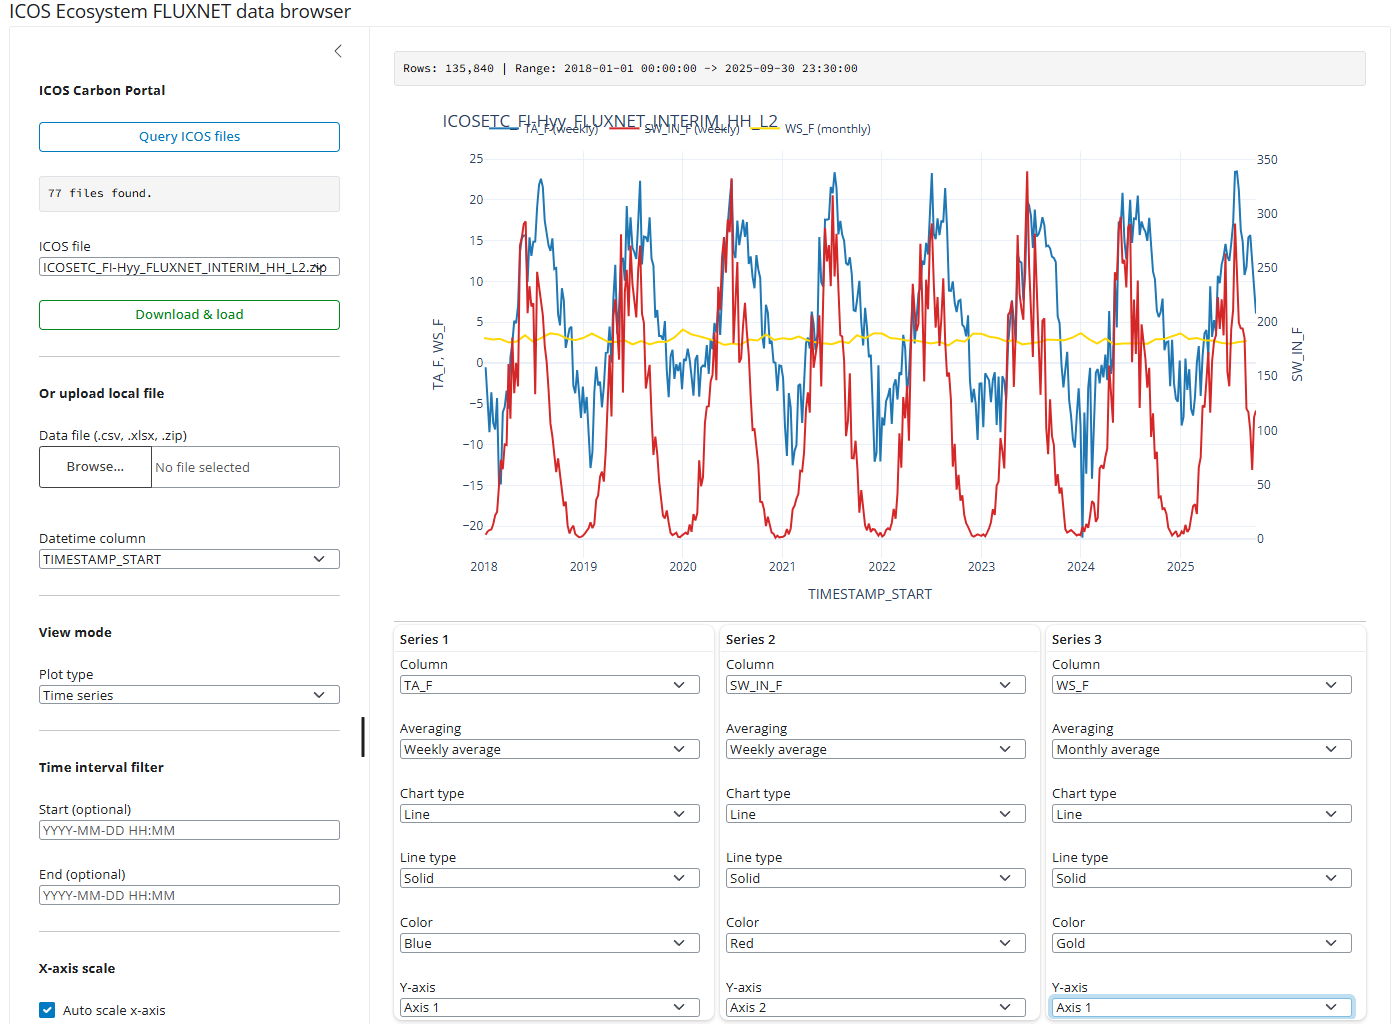
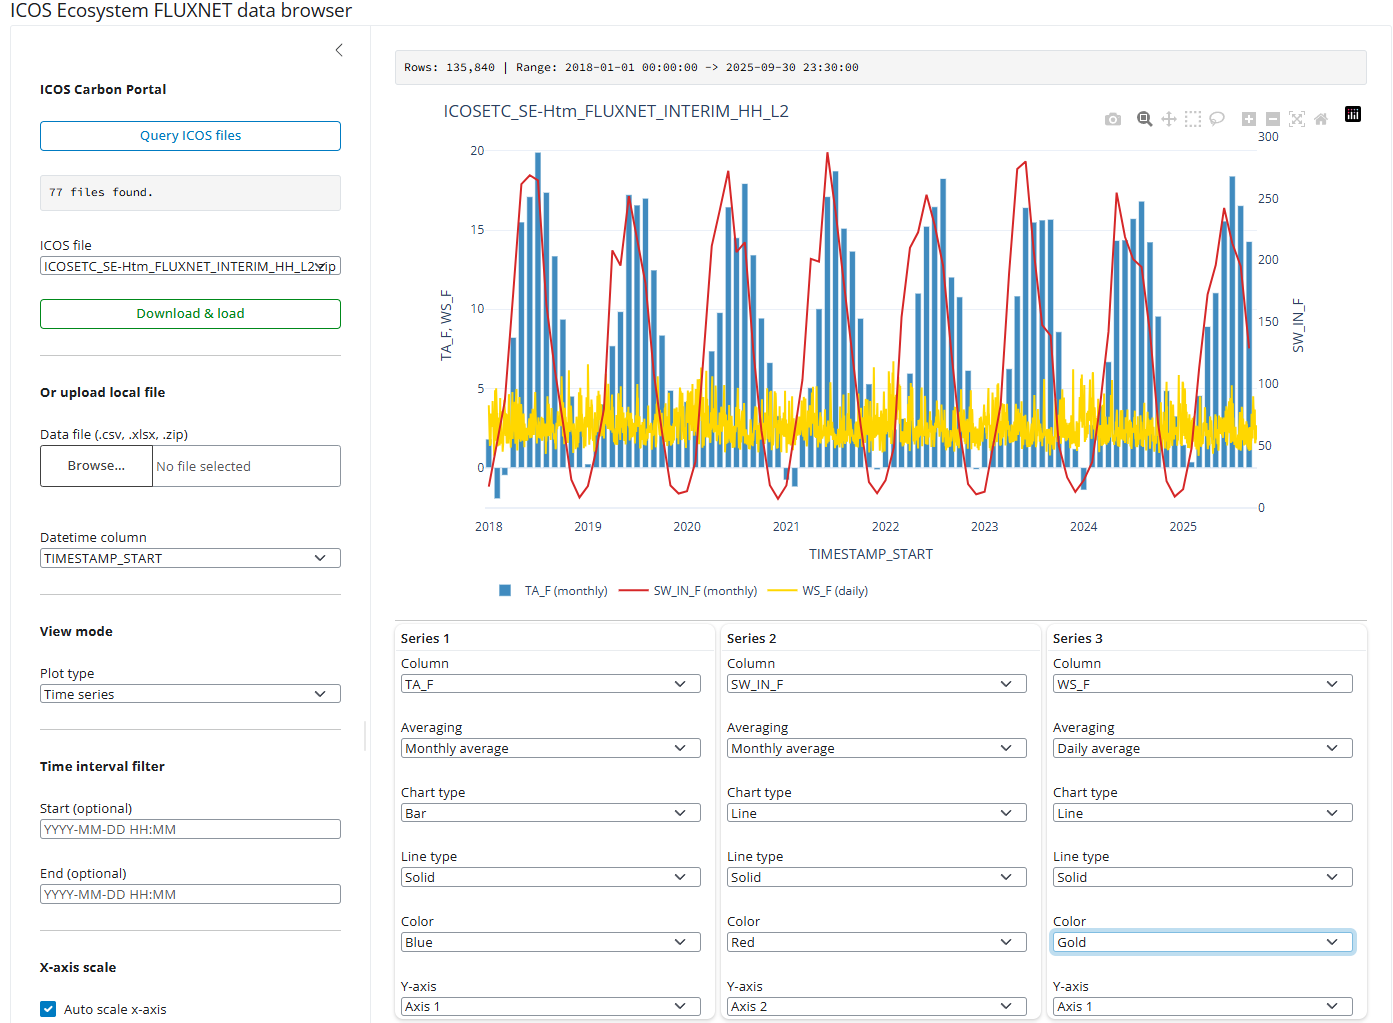
Move legend below title, update screenshot

diff --git a/app.py b/app.py
@@ -779,8 +779,8 @@ def server(input, output, session):
             "title": plot_title,
             "xaxis": xaxis_config,
             "barmode": "group",
-            "legend": {"orientation": "h", "yanchor": "bottom", "y": 1.02, "x": 0},
-            "margin": {"l": 90, "r": 110, "t": 60, "b": 60},
+            "legend": {"orientation": "h", "yanchor": "top", "y": -0.15, "x": 0},
+            "margin": {"l": 90, "r": 110, "t": 60, "b": 80},
             "autosize": True,
         }
 
